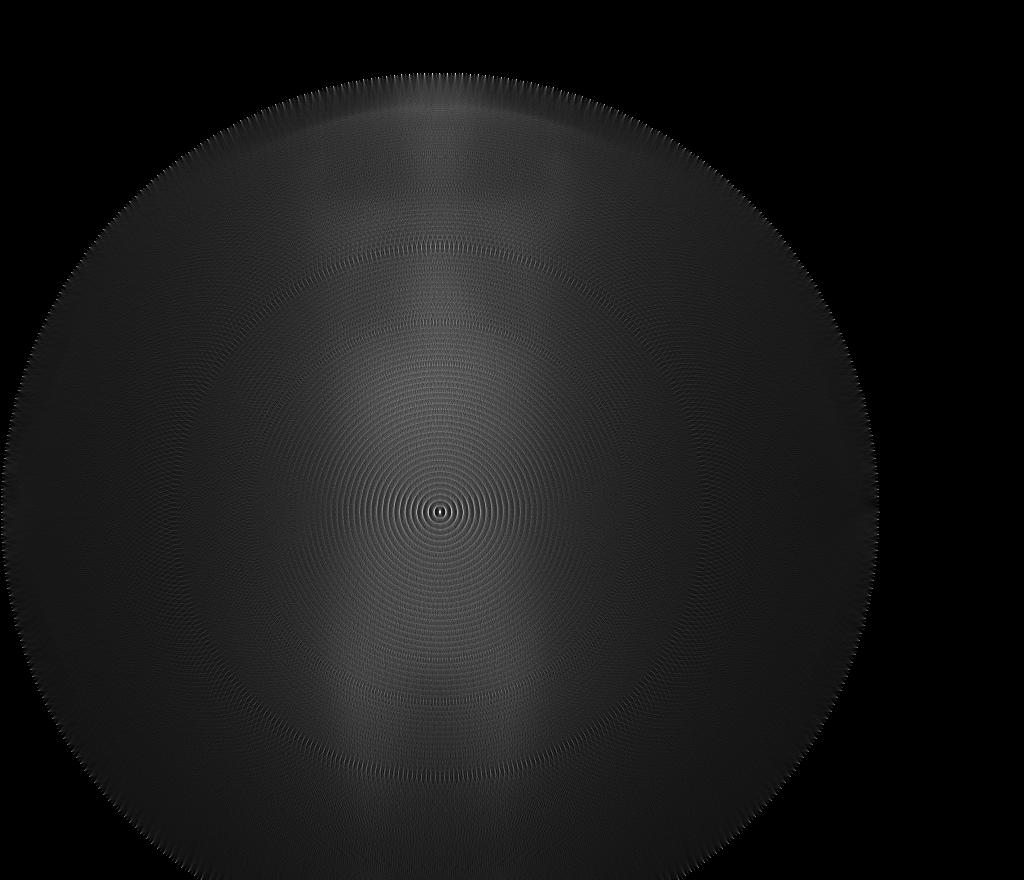
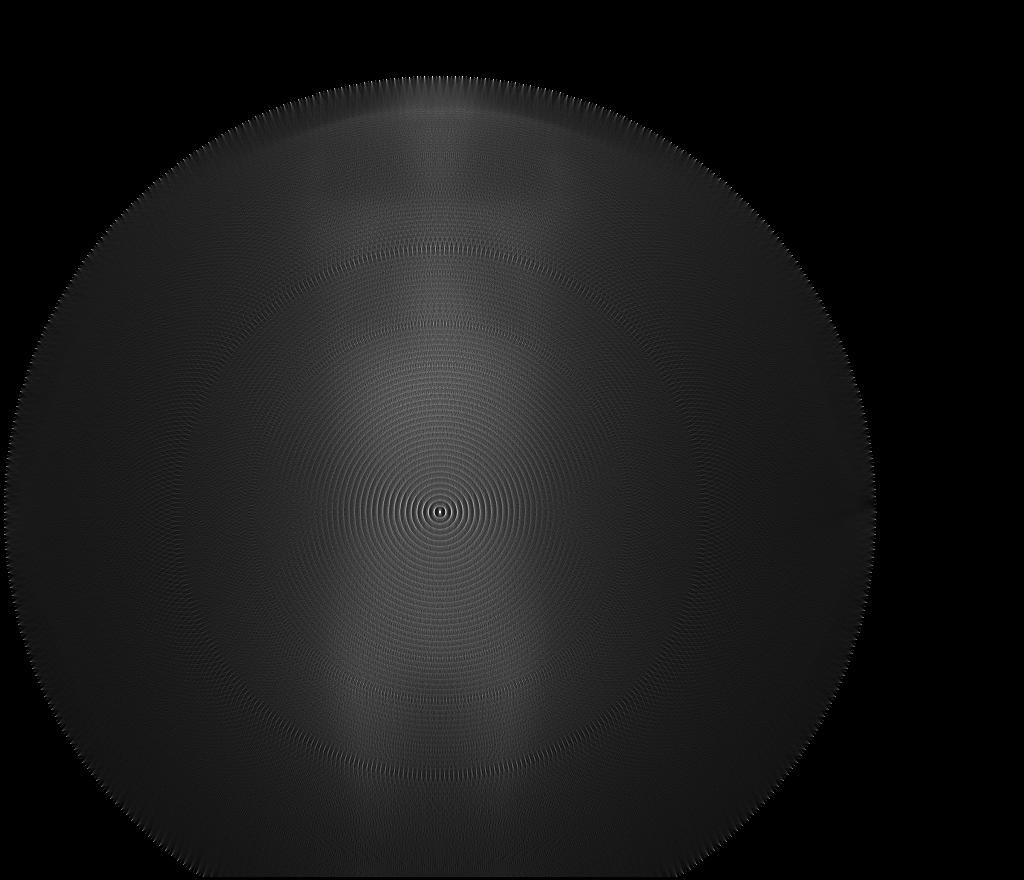
V 2.1

diff --git a/Tomograf.py b/Tomograf.py
@@ -75,10 +75,8 @@ def line(x0,y0, x1,y1 ,imageX, imageY):
 
 
 
-def lineReverse(x0,y0, x1,y1 ,imageY, imageX, image, detValue, sinogramReverse):
+def lineReverse(x0,y0, x1,y1 ,imageX, imageY, image, detValue, sinogramReverse):
     #print(imageX, imageY)
-
-
     wyn=[]
     sum=0.0
     dx = x1-x0
@@ -102,7 +100,7 @@ def lineReverse(x0,y0, x1,y1 ,imageY, imageX, image, detValue, sinogramReverse):
 
         x, y = (0, 0)
         for i in range(int(dx+1)):
-            if((x0+x)<imageX and (y0+y)<imageY):
+            if((x0+x)<imageX-1 and (y0+y)<imageY-1):
                 sinogramReverse[y0 + y,x0 + x ] = (sinogramReverse[y0 + y,x0 + x ] + detValue)
 
             if d > 0:
@@ -121,10 +119,7 @@ def lineReverse(x0,y0, x1,y1 ,imageY, imageX, image, detValue, sinogramReverse):
 
         x, y = (0, 0)
         for i in range(dy+1):
-
-
-            if ((x0 + x )< imageX and (y0 + y )< imageY):
-
+            if ((x0 + x )< imageX-1 and (y0 + y )< imageY-1):
                 sinogramReverse[y0 + y,x0 + x ] = (sinogramReverse[ y0 + y,x0 + x ] + detValue)
 
             if d > 0:
@@ -159,14 +154,24 @@ def makeSinogram(detectorsList, emitersList, detectorsNumber, numberOfRotations,
         for i in range(0,int(numberOfRotations)-1):
             temp = countLinePixel(emitersList[i][0], emitersList[i][1], detectorsList[i][j][0], detectorsList[i][j][1], image)
             sinogram[i][j]=temp
-            #print(temp)
+
+    maxx = 0.0
+    for i in range(len(sinogram)):
+        for j in range(len(sinogram[1])):
+            if (sinogram[i][j]) > maxx:
+                maxx = sinogram[i][j]
+
+    # normalizing
+    for i in range(len(sinogram)):
+        for j in range(len(sinogram[1])):
+            sinogram[i][j] = sinogram[i][j] / maxx
 
     return sinogram
 
 
 def makeSinogramReverse(sinogram, numberOfDet, numberOfRotation, detectorsList, emitersList, image, sinogramReverse):
-    x = len(image[0])
-    y = len(image)
+    y = len(image[0])-2
+    x = len(image)-2
 
     for i in range(numberOfRotation):
         for j in range(numberOfDet):
@@ -191,21 +196,17 @@ def makeDetectorsArray(numberOfDet, fi, systemRotationAngleAlfa, r,centerX, cent
     array=[]
     arrayTemp=[]
     point = []
-    r=r-1
+    r=r-2
     alfa = radians(0.0)
     for i in range(numberofRotation):
         point.append(int( r* cos(alfa + pi - fi/2)+ centerX)) #x
         point.append(int( r* sin(alfa + pi - fi/2)+ centerY) )#y
-
-
         arrayTemp.append(point)
         point=[]
 
         for i in range(1, numberOfDet):
             point.append (int( r*cos(alfa + pi - fi/2 + i*(fi/(numberOfDet-1)) )+ centerX) )#X
             point.append( int( r*sin(alfa + pi - fi/2 + i*(fi/(numberOfDet-1)) )+ centerY) )#Y
-
-
             arrayTemp.append(point)
             point=[]
 
@@ -223,7 +224,7 @@ def makeDetectorsArray(numberOfDet, fi, systemRotationAngleAlfa, r,centerX, cent
 def makeEmitersArray(numberOfRotation,r,centerX, centerY, systemRotationAngleAlfa):
     array = []
     point = []
-    r=r-1
+    r=r-2
     alfa=radians(0.0)
     for i in range(numberOfRotation):
         point.append( int(r*cos(alfa) + centerX))
@@ -233,29 +234,20 @@ def makeEmitersArray(numberOfRotation,r,centerX, centerY, systemRotationAngleAlf
         point=[]
 
     return array
-def getFileNames():
-    file_names = []
-    os.chdir('./Zdjecia-przyklad')
-    cwd = os.getcwd()
-    for file in os.listdir(cwd):
-        if file.endswith(".jpg"):
-            name = os.path.join(cwd, file)
-            file_names.append(file)
 
-
-    os.chdir('../')
-    os.getcwd()
-    return file_names
 def main():
 
     fileNames=getFileNames()
-    #fileNames=['CT_ScoutView.jpg']
+   # fileNames=['CT_ScoutView.jpg']
     systemRotationAngleAlfa = radians(1.0)  # in degrees
     numberOfDet = 181
     fi = radians(270)  # rozpietosc ukladu
-
     for i in fileNames:
-        image = io.imread('./Zdjecia-przyklad/'+i, flatten=True )
+
+
+
+        #image = io.imread('./Zdjecia-przyklad/'+i, as_grey=True)
+        image = io.imread('./Zdjecia-przyklad/' + i, flatten=True)
 
         #size of picture
         x=len(image[0])
@@ -272,33 +264,46 @@ def main():
         else:
             r=x/2
 
+        r=r-2
         numberOfRotations = int(radians(360.0)/systemRotationAngleAlfa)
         arrayOfDetectors = makeDetectorsArray(numberOfDet, fi, systemRotationAngleAlfa, r,centerX, centerY, numberOfRotations)
-        #print(arrayOfDetectors)
 
 
         arrayOfEmiter = makeEmitersArray(numberOfRotations,r,centerX, centerY, systemRotationAngleAlfa)
         high=y
-        #print(arrayOfEmiter)
         sinogram = makeSinogram(arrayOfDetectors, arrayOfEmiter, numberOfDet, numberOfRotations, image, high)
 
-        #print(sinogram)
-        #!!!!
-        #SCOUT WYWALA SIE NA ZAPISIE
         io.imsave('./sinogram_'+i, sinogram)
-        #cv2.imwrite('./sinogram'+i ,sinogram)
-        print("Sinogram saved " +i )
+        print("Sinogram saved : " + i)
 
         sinogramReverse = np.zeros((x, y))
         makeSinogramReverse(sinogram, numberOfDet, numberOfRotations, arrayOfDetectors, arrayOfEmiter, image, sinogramReverse)
 
         io.imsave('./sinogramReverse_' + i, sinogramReverse)
-        #cv2.imwrite('./simogramReverse' + i, sinogramReverse)
+        print('Sinogram reverse saved ' +i)
 
-        print("Reverse singoram saved : " + i)
-        print("")
+    print("END !!! ")
 
-    print("END !!!")
+
+
+
+def getFileNames():
+    file_names = []
+    os.chdir('./Zdjecia-przyklad')
+    cwd = os.getcwd()
+    for file in os.listdir(cwd):
+        if file.endswith(".jpg"):
+            name = os.path.join(cwd, file)
+            file_names.append(file)
+        if file.endswith(".JPG"):
+            name = os.path.join(cwd, file)
+            file_names.append(file)
+
+    os.chdir('../')
+    os.getcwd()
+    return file_names
+
+
 
 if __name__ == '__main__':
     main()
